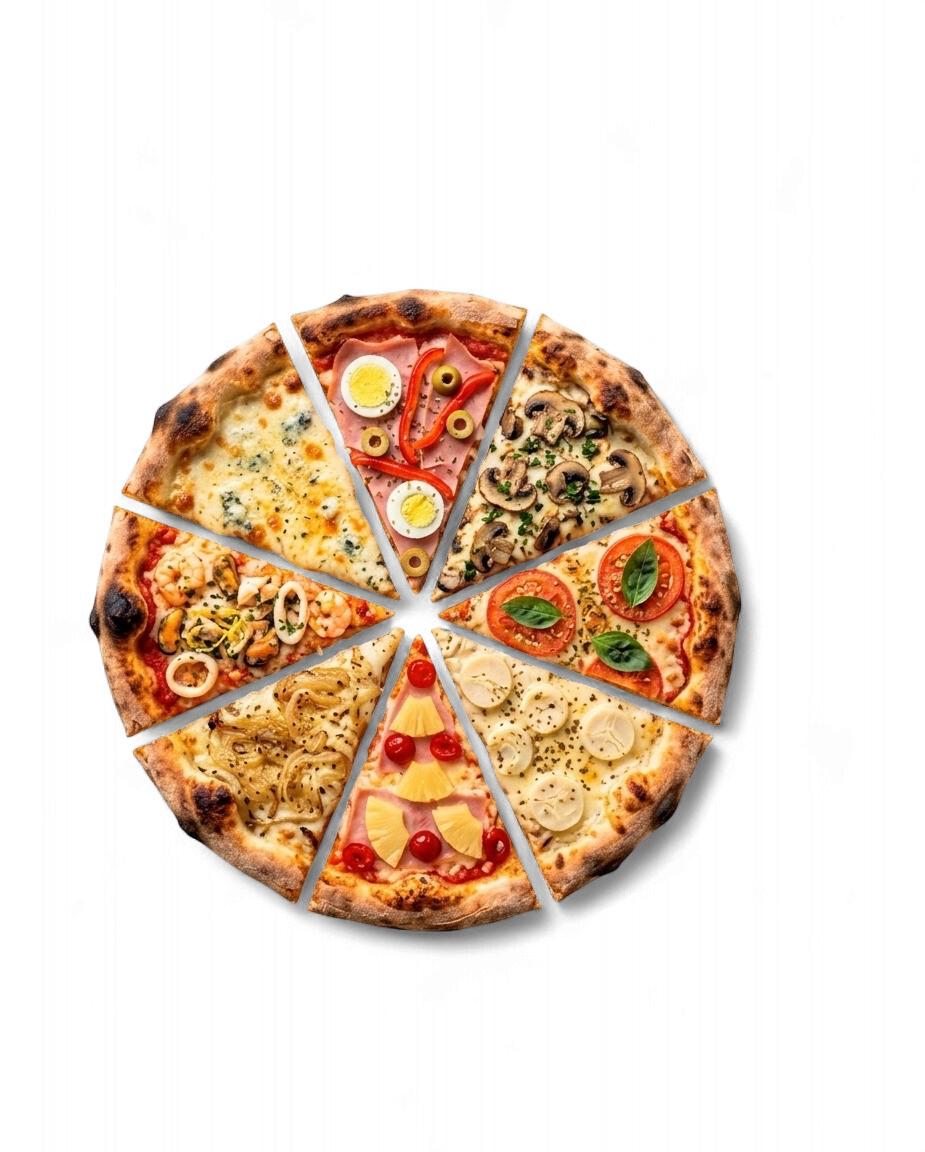
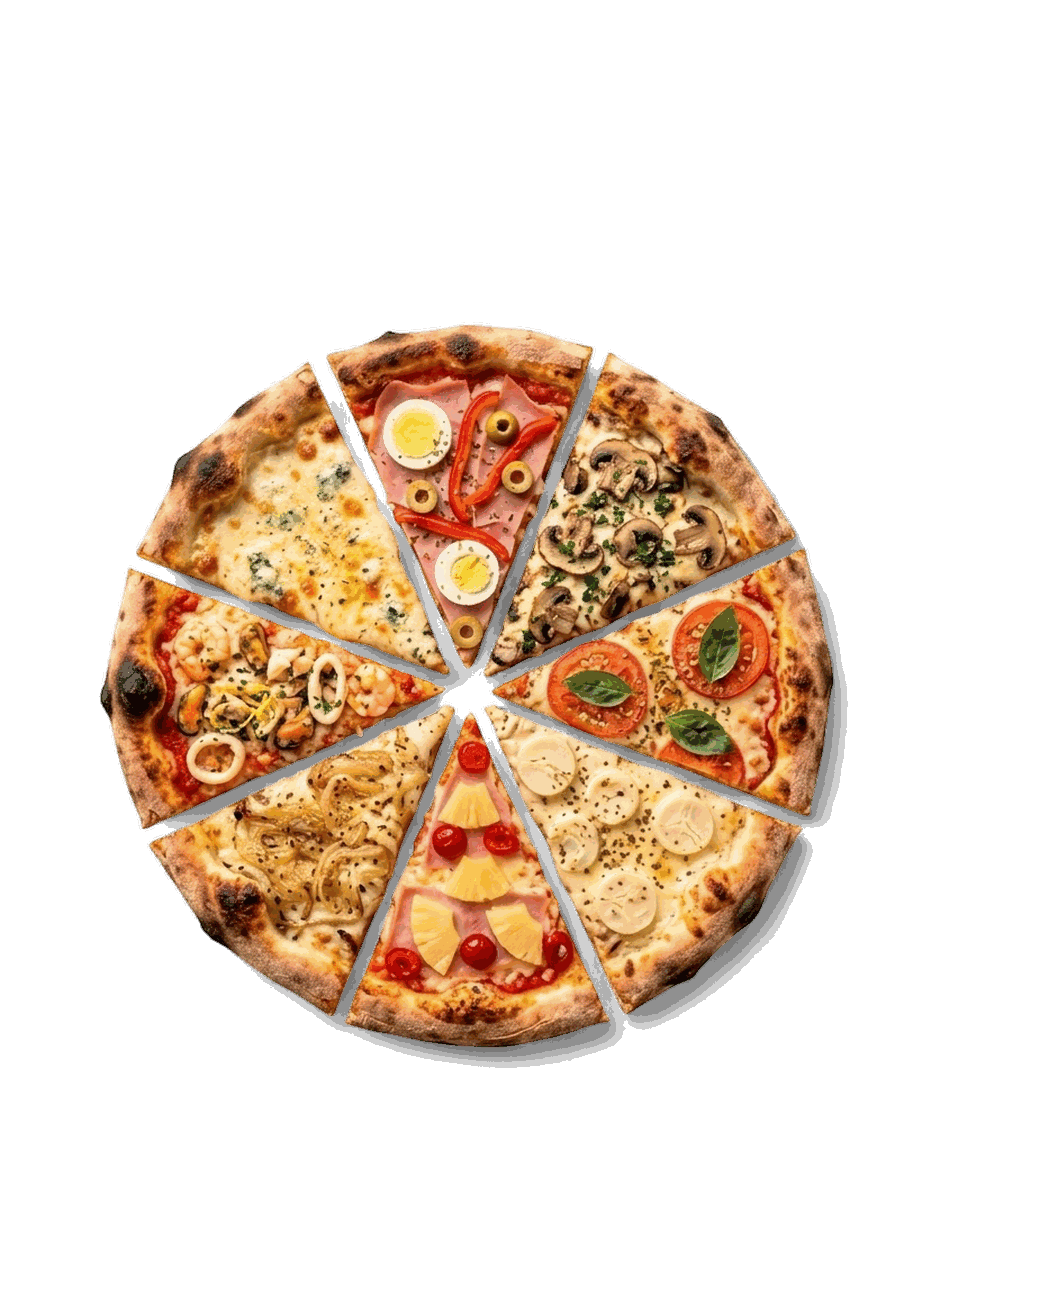
Usar la pizza en la pantalla de carga, con zoom al terminar
La pantalla de carga muestra la misma pizza que después recorre el menú
al scrollear: gira mientras carga y, cuando termina, se acerca y se
desvanece dejando ver la página.

El zoom y el giro van en dos capas separadas. Con ambos en el mismo
elemento el acercamiento salía de un salto: al cortar el giro para
aplicar el zoom el navegador no tiene desde dónde interpolar. Medido:
antes saltaba a 2.6 de una; ahora pasa por 1.17 y 1.86 en el camino.

De paso se optimiza PIZZA.PNG, que pesaba 1184 KB y ahora 226 KB (-81%)
reduciendo la paleta. Se verificó que conserva los bordes suaves (58
niveles de alfa) y que no deja halos sobre el rojo del fondo.

diff --git a/app/globals.css b/app/globals.css
@@ -730,36 +730,36 @@ footer p{font-size:14px;line-height:1.6;opacity:.8;margin-top:12px;max-width:320
 /* ============================ PANTALLA DE CARGA ============================ */
 .cargando{
   position:fixed;inset:0;z-index:9998;
-  display:flex;flex-direction:column;align-items:center;justify-content:center;gap:26px;
+  display:flex;flex-direction:column;align-items:center;justify-content:center;gap:22px;
   background:var(--red);
   /* Red de seguridad: si el JavaScript no corre, igual se va sola a los 8s
      en vez de dejar la página tapada para siempre. */
   animation:cargandoRescate 0s linear 8s forwards;
 }
-.cargando-sale{
-  opacity:0;visibility:hidden;
-  transition:opacity .45s ease, visibility 0s linear .45s;
-}
-@keyframes cargandoRescate{to{opacity:0;visibility:hidden}}
 
-.cargando-marca{display:flex;flex-direction:column;align-items:center;gap:14px}
-.cargando-porcion{
-  width:78px;height:78px;
-  filter:drop-shadow(0 6px 0 rgba(28,20,12,.25));
-  animation:cargandoLatido 1.1s ease-in-out infinite;
+/* Dos capas: la caja se encarga del zoom, la imagen de girar.
+   Separarlas evita que el acercamiento salga de un salto. */
+.cargando-pizza-caja{
+  transform:scale(1);
+  transition:transform .55s cubic-bezier(.4,0,.5,1);
+  will-change:transform;
 }
-@keyframes cargandoLatido{
-  0%,100%{transform:translateY(0) rotate(-4deg)}
-  50%    {transform:translateY(-12px) rotate(4deg)}
+.cargando-pizza{
+  width:min(230px,52vw);height:auto;
+  filter:drop-shadow(0 14px 26px rgba(28,20,12,.35));
+  animation:cargandoGira 3.2s linear infinite;
+  will-change:transform;
 }
+@keyframes cargandoGira{to{transform:rotate(360deg)}}
+
 .cargando-nombre{
   font-family:var(--font-luckiest),system-ui,cursive;
-  font-size:clamp(24px,6vw,34px);letter-spacing:.03em;
+  font-size:clamp(22px,5.5vw,32px);letter-spacing:.03em;
   color:var(--cream);text-shadow:2px 2px 0 rgba(28,20,12,.3);
 }
 
 .cargando-barra{
-  width:min(190px,52vw);height:7px;border-radius:20px;overflow:hidden;
+  width:min(180px,48vw);height:7px;border-radius:20px;overflow:hidden;
   background:rgba(28,20,12,.28);
 }
 .cargando-barra span{
@@ -771,9 +771,24 @@ footer p{font-size:14px;line-height:1.6;opacity:.8;margin-top:12px;max-width:320
   100%{transform:translateX(250%)}
 }
 
+/* Al terminar: la pizza se acerca de golpe y todo se desvanece. */
+.cargando-sale{
+  opacity:0;visibility:hidden;
+  transition:opacity .55s ease, visibility 0s linear .55s;
+}
+.cargando-sale .cargando-pizza-caja{transform:scale(2.6)}
+.cargando-sale .cargando-nombre,
+.cargando-sale .cargando-barra{
+  opacity:0;transform:translateY(10px);
+  transition:opacity .25s ease, transform .25s ease;
+}
+
+@keyframes cargandoRescate{to{opacity:0;visibility:hidden}}
+
 /* Sin scroll mientras se ve la pantalla de carga */
 html.cargando-activo,html.cargando-activo body{overflow:hidden}
 
 @media(prefers-reduced-motion:reduce){
-  .cargando-porcion,.cargando-barra span{animation:none}
+  .cargando-pizza,.cargando-barra span{animation:none}
+  .cargando-pizza-caja,.cargando-sale .cargando-pizza-caja{transform:none;transition:none}
 }

diff --git a/components/landing/Cargando.tsx b/components/landing/Cargando.tsx
@@ -32,14 +32,18 @@ export default function Cargando() {
       const esperar = Math.max(0, MINIMO_MS - pasado);
       window.setTimeout(() => {
         setSaliendo(true);
-        window.setTimeout(() => setFuera(true), 450); // dura el fundido
+        // Tiene que durar lo mismo que el zoom del CSS (.55s), si no se corta.
+        window.setTimeout(() => setFuera(true), 560);
       }, esperar);
     };
 
-    // Las imágenes del hero son lo que realmente se ve primero.
+    // Lo que se ve primero: la pizza de esta misma pantalla y el hero.
+    // (Las pizzas de los costados usan el mismo archivo, así que van de yapa.)
     const imagenesArriba = () => {
       const imgs = [
-        ...document.querySelectorAll<HTMLImageElement>(".hero-img, .side-pizza"),
+        ...document.querySelectorAll<HTMLImageElement>(
+          ".cargando-pizza, .hero-img"
+        ),
       ];
       return Promise.all(
         imgs.map((img) =>
@@ -80,32 +84,22 @@ export default function Cargando() {
       aria-live="polite"
       aria-label="Cargando la página"
     >
-      <div className="cargando-marca">
-        <svg viewBox="0 0 48 48" className="cargando-porcion" aria-hidden="true">
-          <path
-            d="M24 4 8 40l16-6 16 6L24 4Z"
-            fill="#7FB63C"
-            stroke="#1C140C"
-            strokeWidth="2.4"
-            strokeLinejoin="round"
-          />
-          <path
-            d="M24 4 15 24l9 3 9-3L24 4Z"
-            fill="#F4B400"
-            stroke="#1C140C"
-            strokeWidth="2.4"
-            strokeLinejoin="round"
-          />
-          <path
-            d="M24 4 19 14l5 1 5-1-5-10Z"
-            fill="#E23528"
-            stroke="#1C140C"
-            strokeWidth="2.4"
-            strokeLinejoin="round"
-          />
-        </svg>
-        <span className="cargando-nombre">LUIGI PIZZAS</span>
+      {/* La misma pizza que después recorre el menú al scrollear: gira
+          mientras carga y, al terminar, se acerca y se va.
+          Van en dos capas a propósito: la caja hace el zoom y la imagen gira.
+          Si el mismo elemento hiciera las dos cosas, al cortar el giro para
+          hacer el zoom el navegador no puede interpolar y el acercamiento
+          sale de un salto. */}
+      <div className="cargando-pizza-caja">
+        <img
+          className="cargando-pizza"
+          src="/PIZZA.PNG"
+          alt=""
+          aria-hidden="true"
+          fetchPriority="high"
+        />
       </div>
+      <span className="cargando-nombre">LUIGI PIZZAS</span>
       <div className="cargando-barra" aria-hidden="true">
         <span />
       </div>
